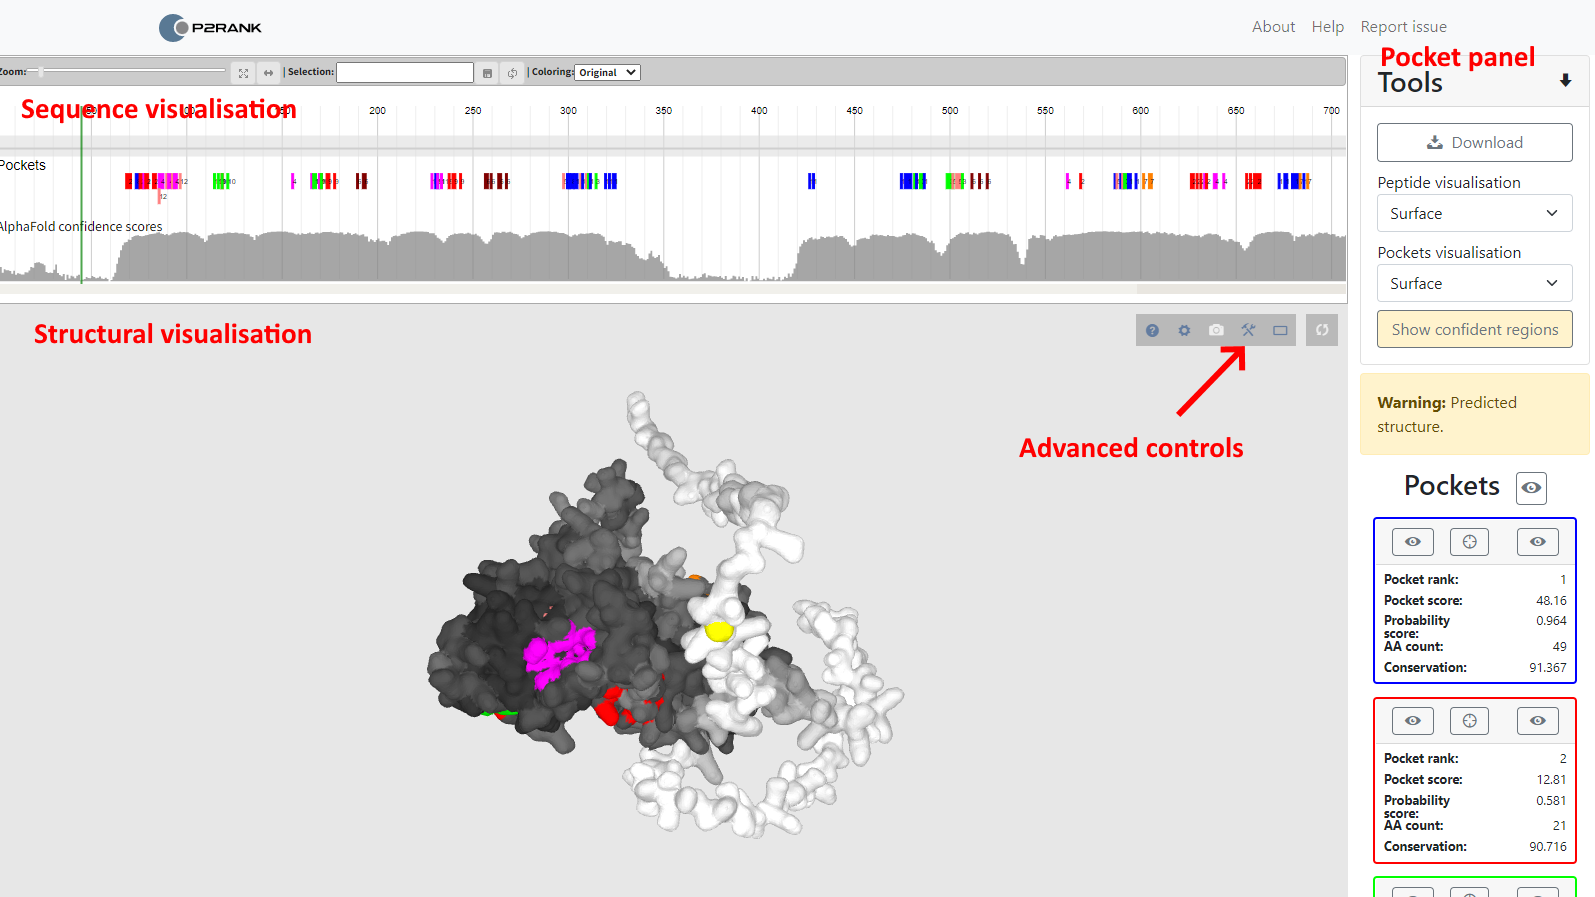
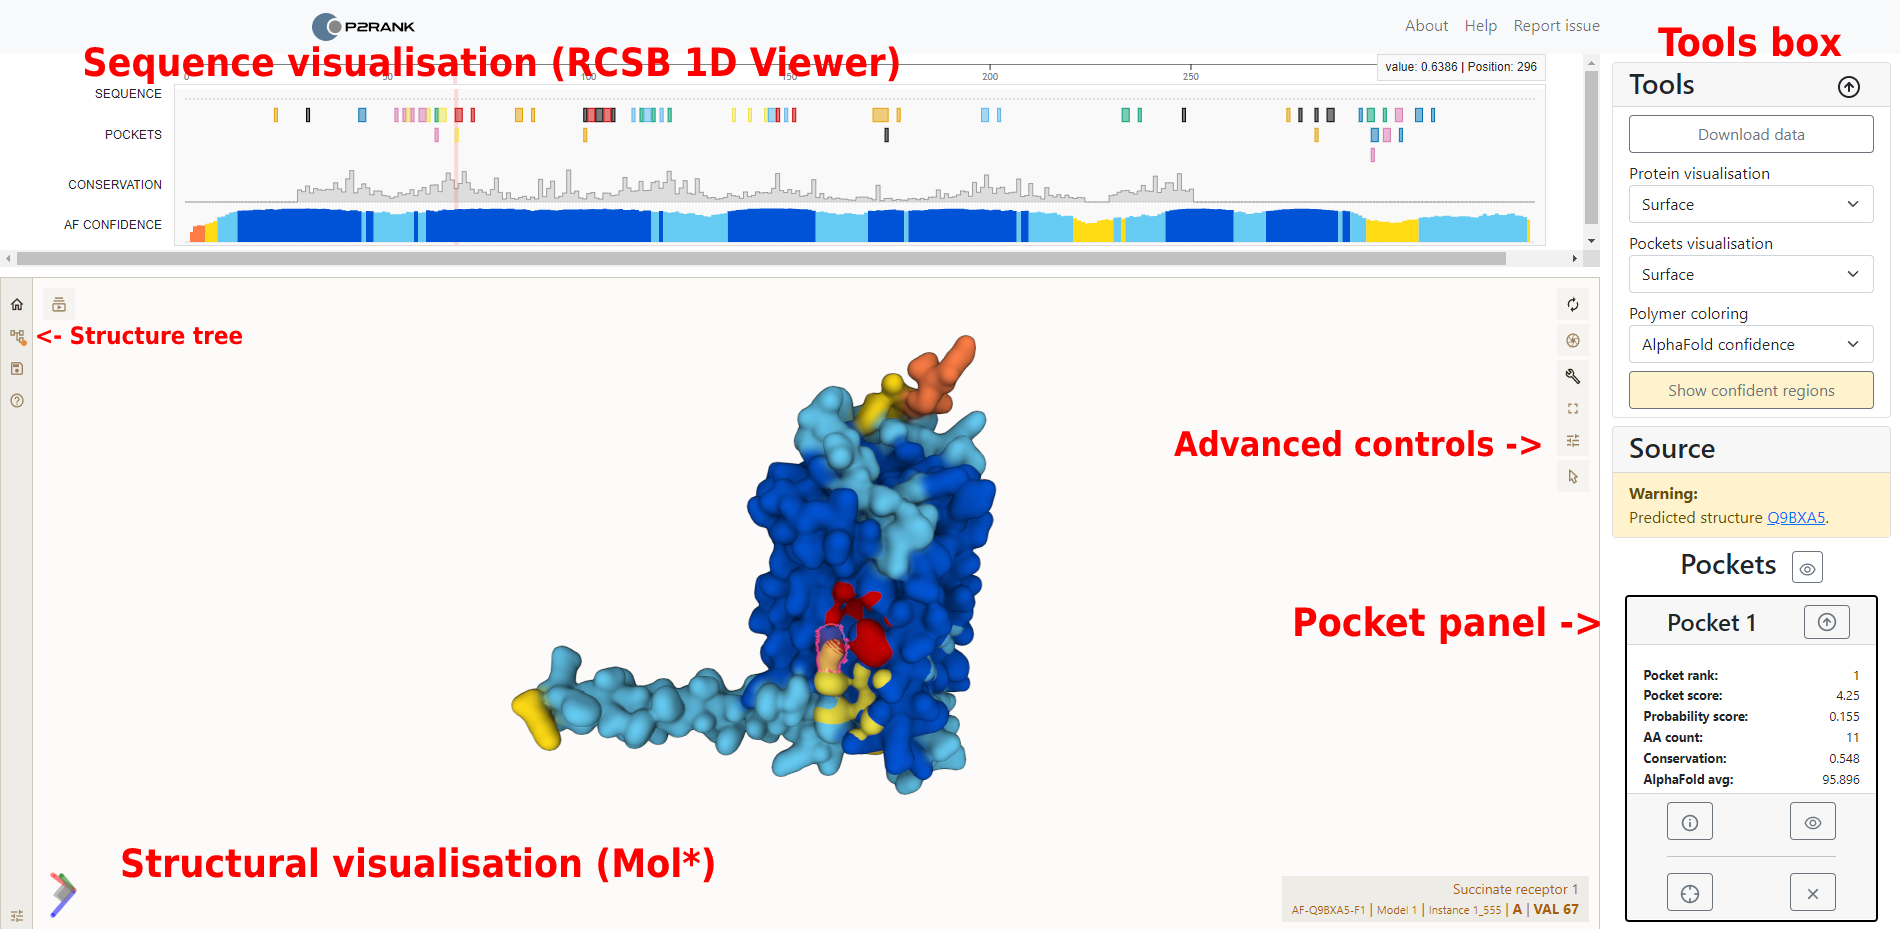
updated help & about pages

diff --git a/frontend/client/help/help.html b/frontend/client/help/help.html
@@ -70,11 +70,18 @@
       Ligands (if available) are displayed with yellow.
     </li>
     <li>
-      If a score, either conservation or residue-level confidence, is available, the protein atoms are colored with shades of gray according to the score of each residue.
+      The user may change the coloring of the protein in the tool box on the right side. 
+    </li>
+    <li>
+      If a conservation score is available, the protein atoms may be colored with shades of gray according to the score of each residue.
       Darker color depicts higher score.
     </li>
     <li>
-      To switch between the views of the protein, use <b>Peptide visualisation</b> and <b>Pockets visualisation</b> selections at top of the pocket panel on the right.
+      If an AlphaFold score (pLDDT) is available, the protein atoms may be colored with the apropriate color according to the score of each residue.
+      The colors are defined by <a href="https://alphafold.ebi.ac.uk/">AlphaFold</a> (blue depicts more confidence).
+    </li>
+    <li>
+      To switch between the views of the protein, use <b>Protein visualisation</b> and <b>Pockets visualisation</b> selections at top of the pocket panel on the right.
     </li>
   </ul>
 
@@ -82,24 +89,32 @@
   <p>
     The molecule can be rotated by moving mouse while holding left mouse button.
     On a touch device, just slide your finger.
-    To zoom in or out, move your mouse while holding the right mouse button or use the pinch gesture on a touch display.
-    In order to move the protein, do the same, but this time hold the wheel button.
+    To zoom in or out, use your mouse wheel button or use the pinch gesture on a touch display.
+    In order to move the protein, hold the right mouse button.
     Lastly, for slabbing the protein, scroll the mouse wheel or use the three finger gesture.
   </p>
   <p>Using the buttons in the top-right corner, one can:</p>
   <ul>
-    <li>Display a help window.</li>
+    <li>Reset the camera.</li>
+    <li>Create a snapshot of current visualization.</li>
+    <li>Toggle the advanced control panel.</li>
+    <li>Toggle full-screen mode.</li>
     <li>
       Setup the scene such as the visualization background or the field of view.
     </li>
-    <li>Create a snapshot of current visualization.</li>
-    <li>Toggle advanced control panels.</li>
-    <li>Toggle full-screen mode.</li>
+    <li>Toggle the selection mode.</li>
   </ul>
+  <p>The panel with advanced controls is toggled by default. It is located on the left side of the viewer. Using the buttons, the user is able to:</p>
+  <ul>
+    <li>Work with the structure and download it.</li>
+    <li>Toggle the state tree and thus toggle all of the available representations.</li>
+    <li>Save the current plugin state.</li>
+    <li>View the help panel.</li>
+  </ul>
+
   <p>
-    By toggling the advanced control panel, one has full control over the content of the visualization using LiteMol.
-    For more help with LiteMol, please visit its
-    <a href="https://webchem.ncbr.muni.cz/Wiki/LiteMol:UserManual" target="_blank" rel="nofollow noopener noreferrer">wiki page</a>.
+    For more help with Mol*, please visit its <a href="https://molstar.org/viewer-docs/" target="_blank" rel="nofollow noopener noreferrer">official page</a> or the
+    <a href="https://github.com/molstar/molstar/" target="_blank" rel="nofollow noopener noreferrer">GitHub page</a>.
   </p>
 
   <h3 id="sequence-visualization-1">Sequence visualization</h3>
@@ -107,7 +122,6 @@
   <ul>
     <li>
       All chains are concatenated and visualized at once.
-      Chains can be identified by regions marked on the main sequence.
     </li>
     <li>
       Colored rectangles depict areas with predicted pockets and real binding areas (if available).
@@ -116,26 +130,27 @@
       Real binding sites are residues within 4 &#8491; from any ligand atom.
     </li>
     <li>
-      If available, conservation scores are portrayed using a bar chart.
+      If available, conservation and AlphaFold scores are portrayed using a bar chart.
     </li>
   </ul>
   <p>
     As one hovers over the sequence with mouse, the residues are highlighted in the 3D visualization.
     This feature allows to analyze the protein both from the structural and sequential point of view.
     By default, the sequence view is zoomed out so that the whole protein is displayed.
-    You can use the trackbar control to zoom in, or select the area with mouse and zoom to the selection.
+    You can use your mouse to zoom in, or zoom to the selected residue by clicking the responsible area.
   </p>
 
   <h2 id="pocket-panel">Pocket panel</h2>
   <p>
     The right panel contains several control buttons and a list of predicted pockets.
     Use the control buttons to download PrankWeb report, or switch between the structural views.
-    In the pocket list, pocket name, rank, <a href="#probability-score">probability score</a>, size, and average conservation score (if available) is displayed for each pocket.
+    In the pocket list, pocket name, rank, <a href="#probability-score">probability score</a>, size, average conservation score (if available) and average AlphaFold score (if available) is displayed for each pocket.
     Each pocket also contains several buttons related to visibility of the pockets in the visualizations.
+    The user might show the dialog with additional information as well.
   </p>
   <p>
     If the visualised structure is predicted, then this panel also contains a warning and a toggle button.
-    Using the button user can toggle between visualisation of a whole structure and  confidently predicted regions (confidence score &gt; 70).
+    Using the button user can toggle between visualisation of a whole structure and confidently predicted regions (confidence score &gt; 70).
   </p>
 
   <h3 id="probability-score">Probability score calculation</h3>

diff --git a/frontend/client/about/about.html b/frontend/client/about/about.html
@@ -156,6 +156,28 @@
         marian.novotny&nbsp;(at)&nbsp;natur.cuni.cz
       </p>
     </div>
+    <div class="col-md-4 col-sm-6 col-xs-12 profile">
+      <div class="img-box">
+        <!-- TODO: add photo -->
+      </div>
+      <h3>Petr Škoda</h3>
+      <p>Faculty of Mathematics and Physics, Charles&nbsp;University</p>
+      <p>
+        <img src="./assets/images/mail.png" style="height: 1em;"/>
+        petr.skoda&nbsp;(at)&nbsp;matfyz.cuni.cz
+      </p>
+    </div>
+    <div class="col-md-4 col-sm-6 col-xs-12 profile">
+      <div class="img-box">
+        <!-- TODO: add photo -->
+      </div>
+      <h3>Lukáš Polák</h3>
+      <p>Faculty of Mathematics and Physics, Charles&nbsp;University</p>
+      <p>
+        <img src="./assets/images/mail.png" style="height: 1em;"/>
+        admin&nbsp;(at)&nbsp;lukaspolak.cz
+      </p>
+    </div>
   </div>
 
   @require("../partials/footer.html")
